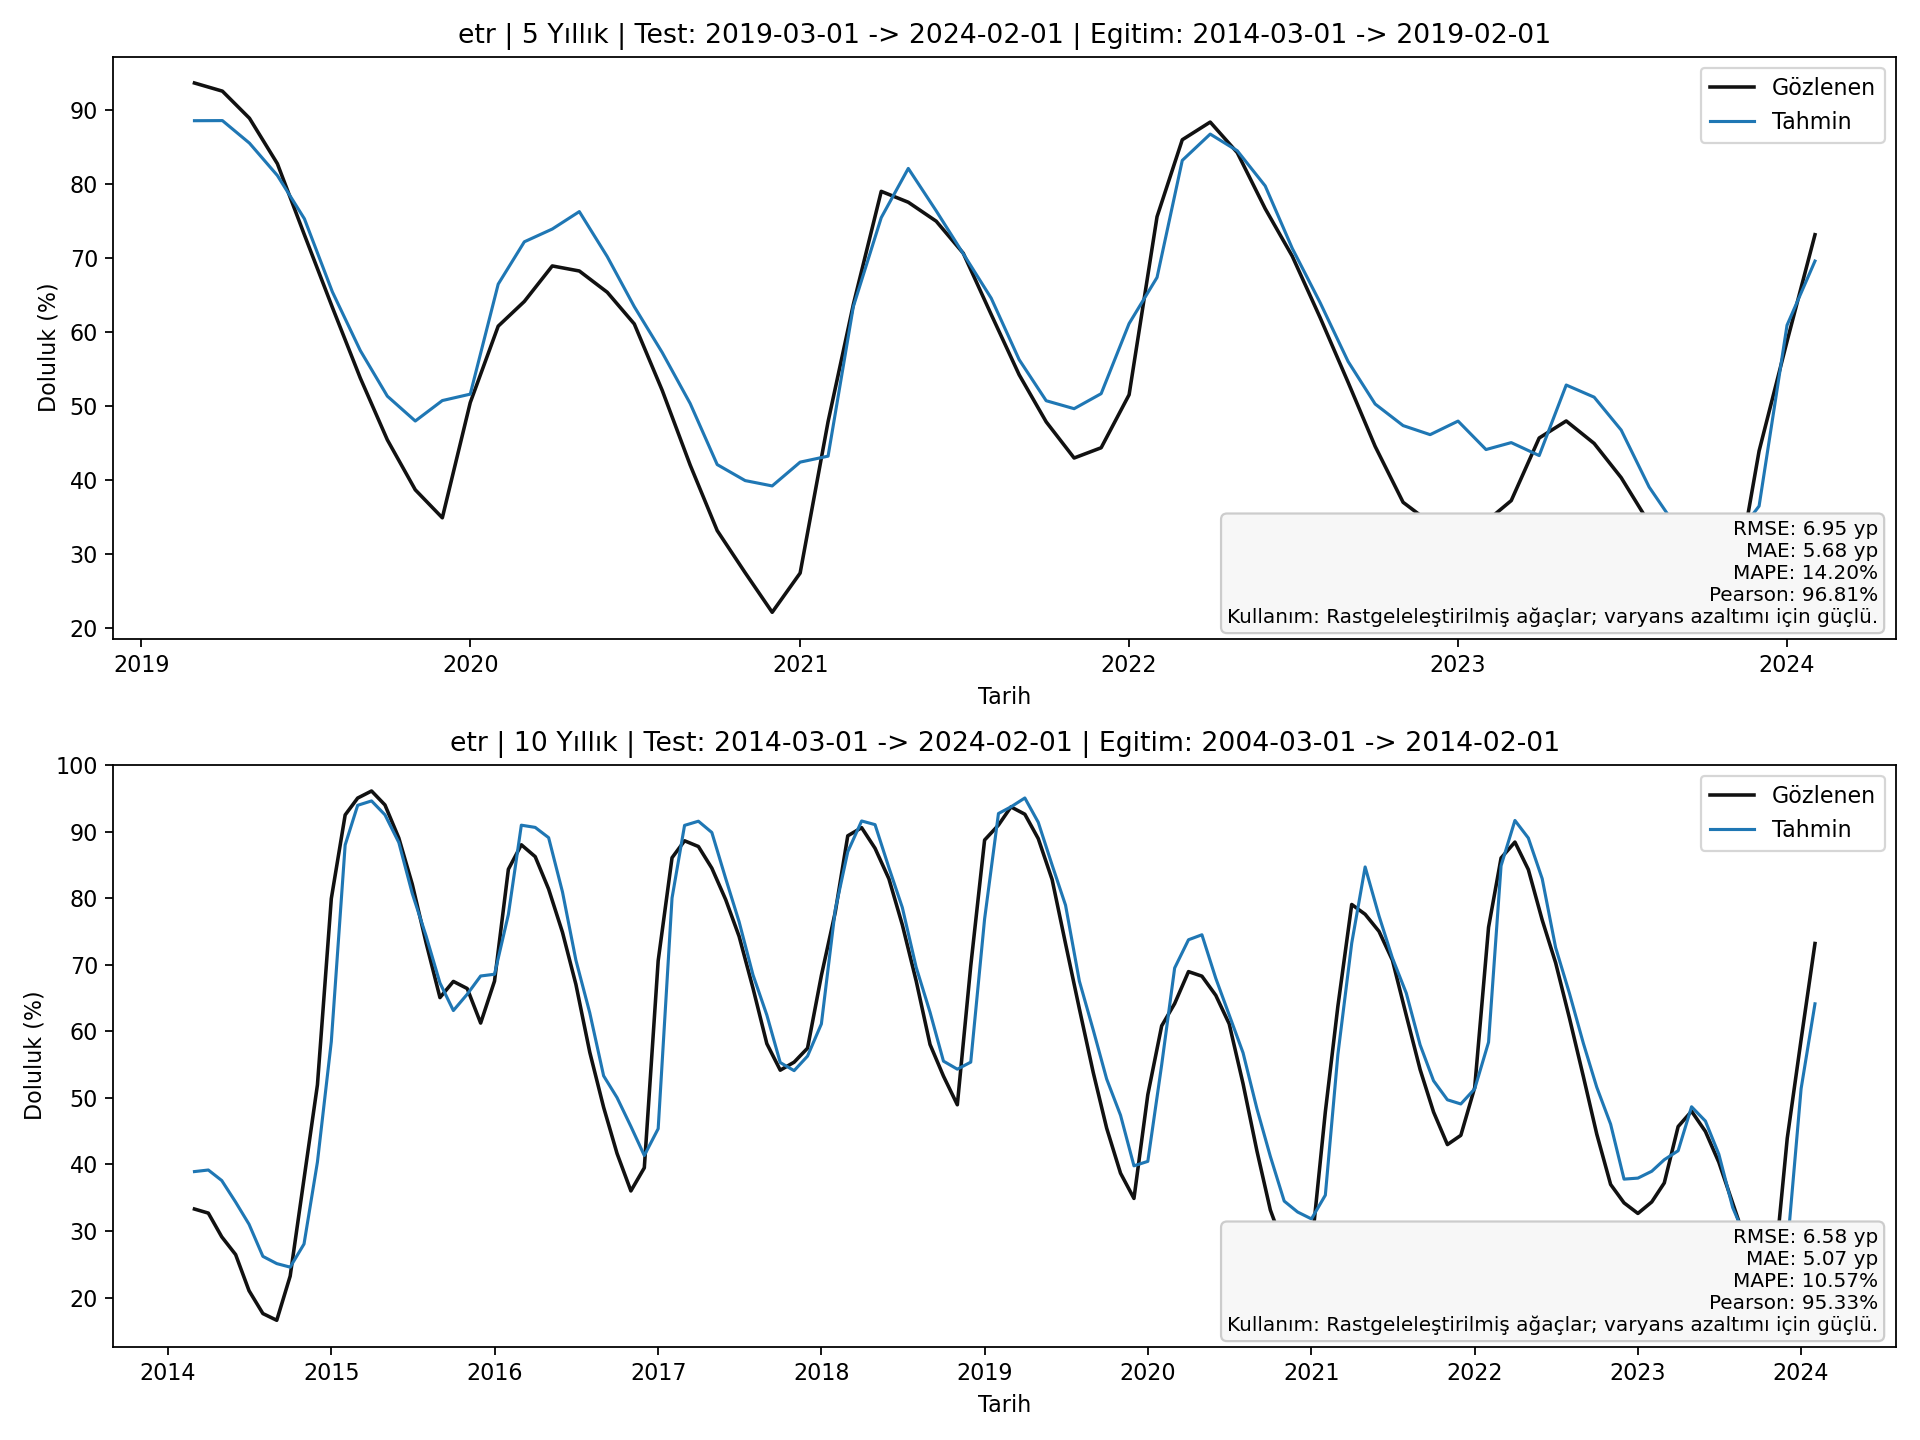
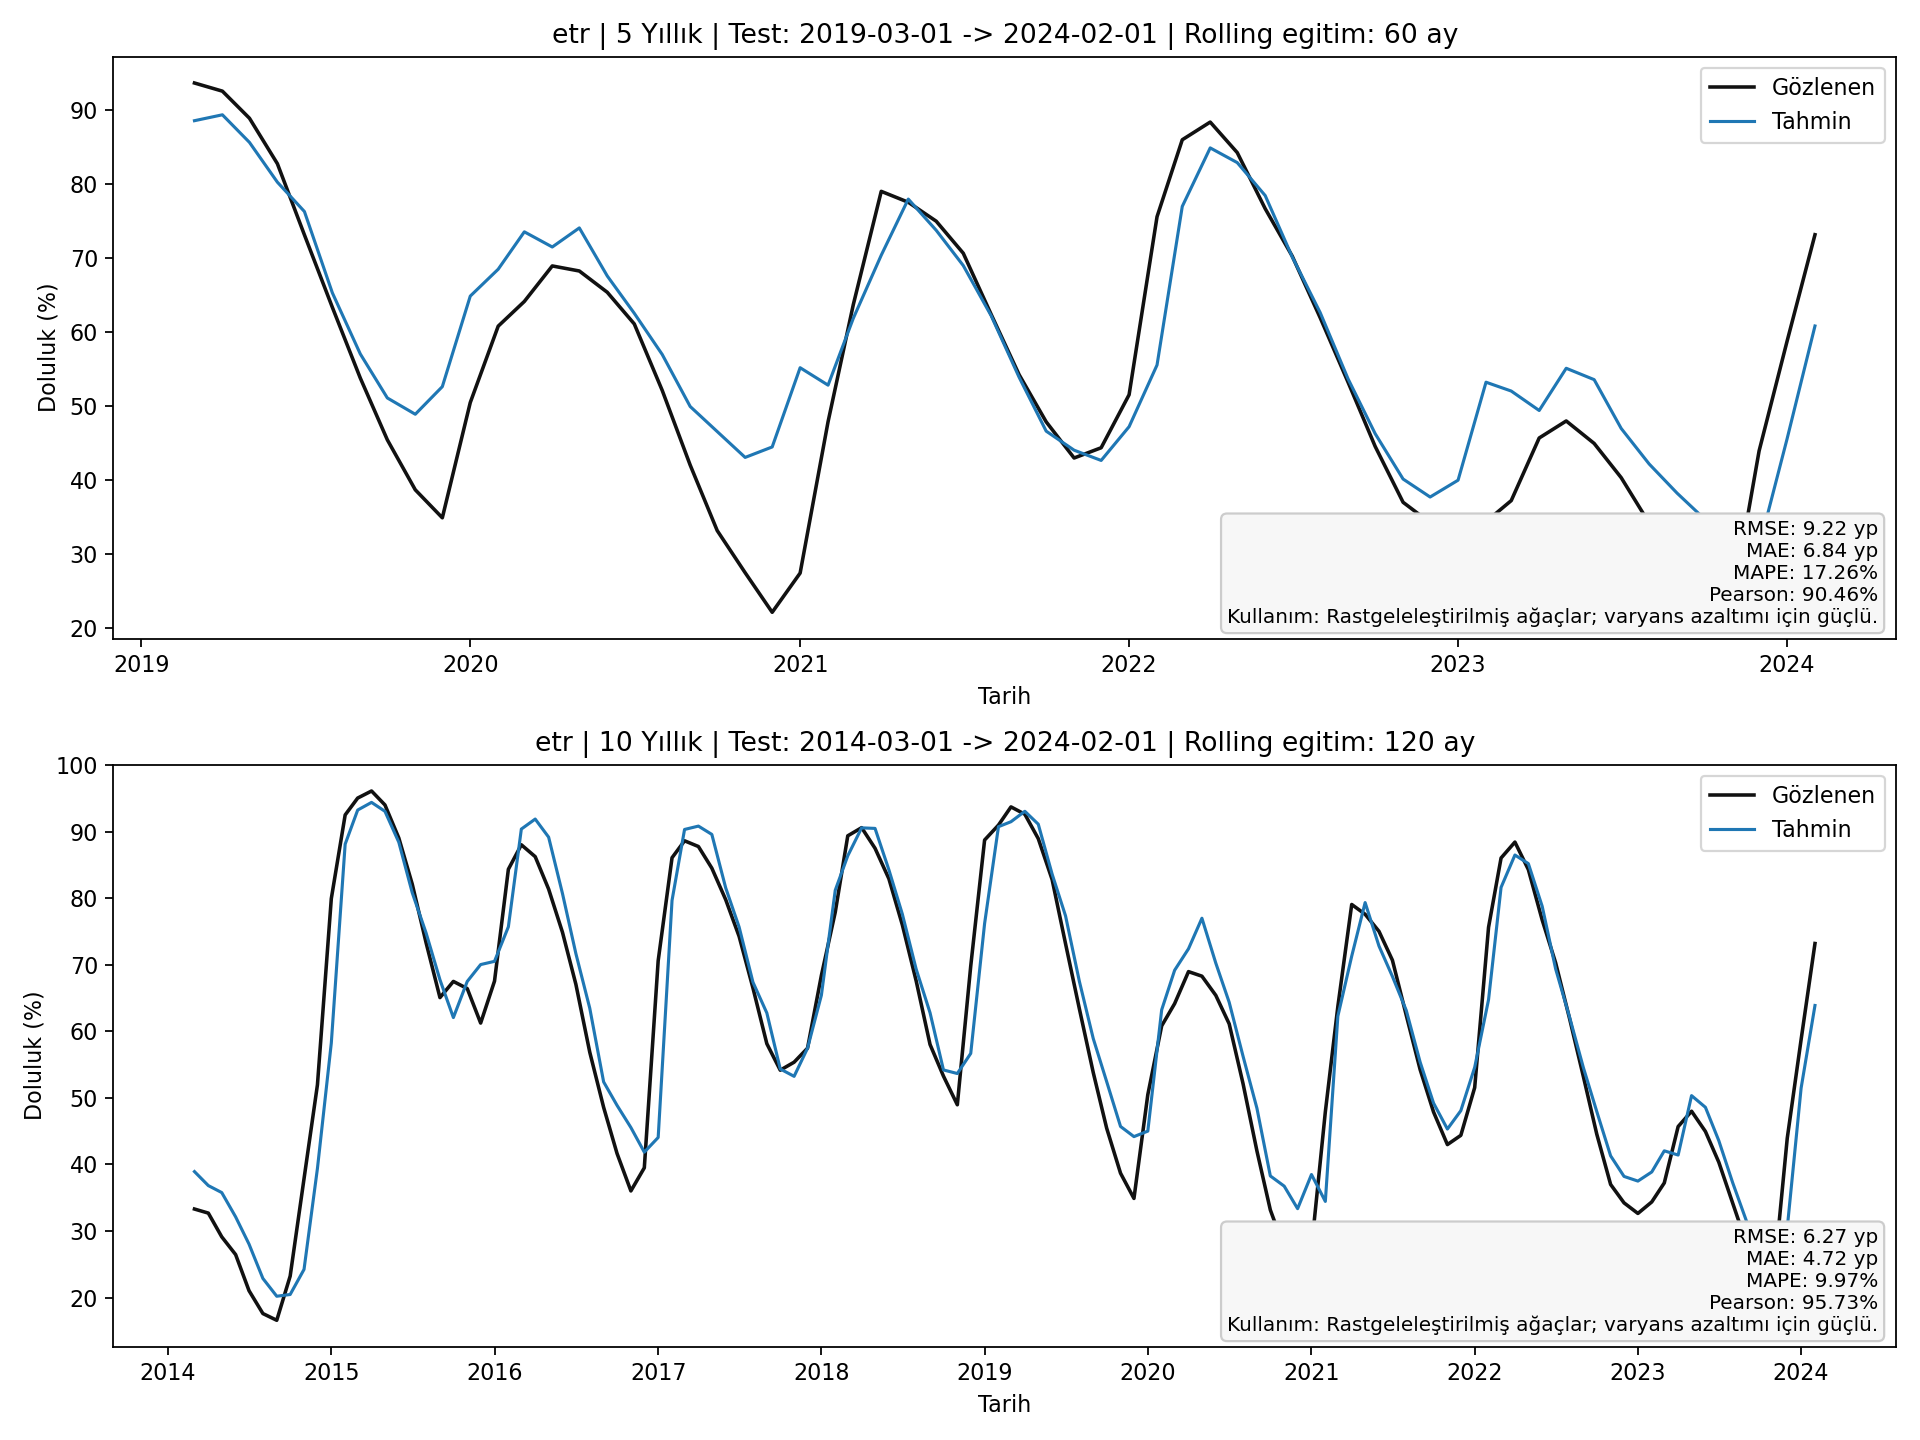
Grafikler: 5Y/10Y kartlarını rolling eğitim penceresine geçir

diff --git a/baraj_web/index.html b/baraj_web/index.html
@@ -471,7 +471,7 @@
             <div class="panel-media">
               <img class="media-wide zoomable" src="assets/img/ridge_projection_2000_2040.png?v=20260326-9" alt="Ridge 2000-2040" />
               <div class="media-row">
-                <img class="media-small zoomable" src="assets/img/ridge_5y_10y.png?v=20260326-12" alt="Ridge 5y/10y karşılaştırma" />
+                <img class="media-small zoomable" src="assets/img/ridge_5y_10y.png?v=20260326-13" alt="Ridge 5y/10y karşılaştırma" />
                 <img class="media-small zoomable" src="assets/img/ridge_projection_zoom_2040.png?v=20260326-9" alt="Ridge 2024-2040" />
               </div>
             </div>
@@ -489,7 +489,7 @@
             <div class="panel-media">
               <img class="media-wide zoomable" src="assets/img/gbr_projection_2000_2040.png?v=20260326-9" alt="GBR 2000-2040" />
               <div class="media-row">
-                <img class="media-small zoomable" src="assets/img/gbr_5y_10y.png?v=20260326-12" alt="GBR 5y/10y karşılaştırma" />
+                <img class="media-small zoomable" src="assets/img/gbr_5y_10y.png?v=20260326-13" alt="GBR 5y/10y karşılaştırma" />
                 <img class="media-small zoomable" src="assets/img/gbr_projection_zoom_2040.png?v=20260326-9" alt="GBR 2024-2040" />
               </div>
             </div>
@@ -507,7 +507,7 @@
             <div class="panel-media">
               <img class="media-wide zoomable" src="assets/img/hgb_projection_2000_2040.png?v=20260326-9" alt="HGB 2000-2040" />
               <div class="media-row">
-                <img class="media-small zoomable" src="assets/img/hgb_5y_10y.png?v=20260326-12" alt="HGB 5y/10y karşılaştırma" />
+                <img class="media-small zoomable" src="assets/img/hgb_5y_10y.png?v=20260326-13" alt="HGB 5y/10y karşılaştırma" />
                 <img class="media-small zoomable" src="assets/img/hgb_projection_zoom_2040.png?v=20260326-9" alt="HGB 2024-2040" />
               </div>
             </div>
@@ -525,7 +525,7 @@
             <div class="panel-media">
               <img class="media-wide zoomable" src="assets/img/rf_projection_2000_2040.png?v=20260326-9" alt="RF 2000-2040" />
               <div class="media-row">
-                <img class="media-small zoomable" src="assets/img/rf_5y_10y.png?v=20260326-12" alt="RF 5y/10y karşılaştırma" />
+                <img class="media-small zoomable" src="assets/img/rf_5y_10y.png?v=20260326-13" alt="RF 5y/10y karşılaştırma" />
                 <img class="media-small zoomable" src="assets/img/rf_projection_zoom_2040.png?v=20260326-9" alt="RF 2024-2040" />
               </div>
             </div>
@@ -543,7 +543,7 @@
             <div class="panel-media">
               <img class="media-wide zoomable" src="assets/img/etr_projection_2000_2040.png?v=20260326-9" alt="ETR 2000-2040" />
               <div class="media-row">
-                <img class="media-small zoomable" src="assets/img/etr_5y_10y.png?v=20260326-12" alt="ETR 5y/10y karşılaştırma" />
+                <img class="media-small zoomable" src="assets/img/etr_5y_10y.png?v=20260326-13" alt="ETR 5y/10y karşılaştırma" />
                 <img class="media-small zoomable" src="assets/img/etr_projection_zoom_2040.png?v=20260326-9" alt="ETR 2024-2040" />
               </div>
             </div>

diff --git a/index.html b/index.html
@@ -471,7 +471,7 @@
             <div class="panel-media">
               <img class="media-wide zoomable" src="assets/img/ridge_projection_2000_2040.png?v=20260326-9" alt="Ridge 2000-2040" />
               <div class="media-row">
-                <img class="media-small zoomable" src="assets/img/ridge_5y_10y.png?v=20260326-12" alt="Ridge 5y/10y karşılaştırma" />
+                <img class="media-small zoomable" src="assets/img/ridge_5y_10y.png?v=20260326-13" alt="Ridge 5y/10y karşılaştırma" />
                 <img class="media-small zoomable" src="assets/img/ridge_projection_zoom_2040.png?v=20260326-9" alt="Ridge 2024-2040" />
               </div>
             </div>
@@ -489,7 +489,7 @@
             <div class="panel-media">
               <img class="media-wide zoomable" src="assets/img/gbr_projection_2000_2040.png?v=20260326-9" alt="GBR 2000-2040" />
               <div class="media-row">
-                <img class="media-small zoomable" src="assets/img/gbr_5y_10y.png?v=20260326-12" alt="GBR 5y/10y karşılaştırma" />
+                <img class="media-small zoomable" src="assets/img/gbr_5y_10y.png?v=20260326-13" alt="GBR 5y/10y karşılaştırma" />
                 <img class="media-small zoomable" src="assets/img/gbr_projection_zoom_2040.png?v=20260326-9" alt="GBR 2024-2040" />
               </div>
             </div>
@@ -507,7 +507,7 @@
             <div class="panel-media">
               <img class="media-wide zoomable" src="assets/img/hgb_projection_2000_2040.png?v=20260326-9" alt="HGB 2000-2040" />
               <div class="media-row">
-                <img class="media-small zoomable" src="assets/img/hgb_5y_10y.png?v=20260326-12" alt="HGB 5y/10y karşılaştırma" />
+                <img class="media-small zoomable" src="assets/img/hgb_5y_10y.png?v=20260326-13" alt="HGB 5y/10y karşılaştırma" />
                 <img class="media-small zoomable" src="assets/img/hgb_projection_zoom_2040.png?v=20260326-9" alt="HGB 2024-2040" />
               </div>
             </div>
@@ -525,7 +525,7 @@
             <div class="panel-media">
               <img class="media-wide zoomable" src="assets/img/rf_projection_2000_2040.png?v=20260326-9" alt="RF 2000-2040" />
               <div class="media-row">
-                <img class="media-small zoomable" src="assets/img/rf_5y_10y.png?v=20260326-12" alt="RF 5y/10y karşılaştırma" />
+                <img class="media-small zoomable" src="assets/img/rf_5y_10y.png?v=20260326-13" alt="RF 5y/10y karşılaştırma" />
                 <img class="media-small zoomable" src="assets/img/rf_projection_zoom_2040.png?v=20260326-9" alt="RF 2024-2040" />
               </div>
             </div>
@@ -543,7 +543,7 @@
             <div class="panel-media">
               <img class="media-wide zoomable" src="assets/img/etr_projection_2000_2040.png?v=20260326-9" alt="ETR 2000-2040" />
               <div class="media-row">
-                <img class="media-small zoomable" src="assets/img/etr_5y_10y.png?v=20260326-12" alt="ETR 5y/10y karşılaştırma" />
+                <img class="media-small zoomable" src="assets/img/etr_5y_10y.png?v=20260326-13" alt="ETR 5y/10y karşılaştırma" />
                 <img class="media-small zoomable" src="assets/img/etr_projection_zoom_2040.png?v=20260326-9" alt="ETR 2024-2040" />
               </div>
             </div>

diff --git a/scripts/build_model_cards_5y_10y.py b/scripts/build_model_cards_5y_10y.py
@@ -14,6 +14,7 @@ from sklearn.linear_model import Ridge
 from sklearn.pipeline import make_pipeline
 from sklearn.preprocessing import StandardScaler
 from sklearn.ensemble import RandomForestRegressor, ExtraTreesRegressor, GradientBoostingRegressor, HistGradientBoostingRegressor
+from sklearn.base import clone
 from sklearn.metrics import mean_squared_error, mean_absolute_error
 
 ROOT = Path("/Users/yasinkaya/Hackhaton")
@@ -175,6 +176,51 @@ def split_window(df, train_start, train_end, test_start, test_end):
     return train, test
 
 
+def rolling_window_predict(
+    df: pd.DataFrame,
+    model_template,
+    lookback_months: int,
+    test_start: pd.Timestamp,
+    test_end: pd.Timestamp,
+):
+    data = df.sort_values("date").reset_index(drop=True).copy()
+    feat_cols = [c for c in data.columns if c not in ["date", "fill_pct"]]
+    test = data[(data["date"] >= test_start) & (data["date"] <= test_end)].copy()
+
+    dates = []
+    y_true = []
+    y_pred = []
+    train_windows = []
+
+    for _, row in test.iterrows():
+        cur_date = pd.Timestamp(row["date"])
+        train_end = (cur_date - pd.DateOffset(months=1)).normalize()
+        train_start = (train_end - pd.DateOffset(months=lookback_months - 1)).normalize()
+        train = data[(data["date"] >= train_start) & (data["date"] <= train_end)].copy()
+        if len(train) < lookback_months:
+            continue
+
+        X_train = train[feat_cols].to_numpy(dtype=float)
+        y_train = train["fill_pct"].to_numpy(dtype=float)
+        X_cur = np.asarray(row[feat_cols], dtype=float).reshape(1, -1)
+
+        model = clone(model_template)
+        model.fit(X_train, y_train)
+        pred = float(model.predict(X_cur)[0])
+
+        dates.append(cur_date)
+        y_true.append(float(row["fill_pct"]))
+        y_pred.append(pred)
+        train_windows.append((train_start, train_end))
+
+    return (
+        np.asarray(dates),
+        np.asarray(y_true, dtype=float),
+        np.asarray(y_pred, dtype=float),
+        train_windows,
+    )
+
+
 def model_catalog():
     return {
         "ridge": make_pipeline(StandardScaler(), Ridge(alpha=1.0)),
@@ -256,47 +302,47 @@ def main():
     end_date = feat["date"].max()
     test5_start = (end_date - pd.DateOffset(months=59)).normalize()
     test5_end = end_date
-    train5_end = (test5_start - pd.DateOffset(months=1)).normalize()
-    train5_start = (train5_end - pd.DateOffset(months=59)).normalize()
-
     test10_start = (end_date - pd.DateOffset(months=119)).normalize()
     test10_end = end_date
-    train10_end = (test10_start - pd.DateOffset(months=1)).normalize()
-    train10_start = (train10_end - pd.DateOffset(months=119)).normalize()
 
     windows = {
-        "5y": (train5_start, train5_end, test5_start, test5_end),
-        "10y": (train10_start, train10_end, test10_start, test10_end),
+        "5y": (60, test5_start, test5_end),
+        "10y": (120, test10_start, test10_end),
     }
 
     models = model_catalog()
     rows = []
     per_model = {name: {} for name in models.keys()}
 
-    for wlabel, (train_start, train_end, test_start, test_end) in windows.items():
-        train, test = split_window(feat, train_start, train_end, test_start, test_end)
-        if train.empty or test.empty:
-            continue
-        X_train = train.drop(columns=["date", "fill_pct"]).values
-        y_train = train["fill_pct"].values
-        X_test = test.drop(columns=["date", "fill_pct"]).values
-        y_test = test["fill_pct"].values
-
+    for wlabel, (lookback_months, test_start, test_end) in windows.items():
         for name, model in models.items():
-            model.fit(X_train, y_train)
-            y_pred = model.predict(X_test)
-            metrics = eval_metrics(y_test, y_pred)
+            dates, y_true, y_pred, train_windows = rolling_window_predict(
+                feat,
+                model,
+                lookback_months=lookback_months,
+                test_start=test_start,
+                test_end=test_end,
+            )
+            if len(y_true) == 0:
+                continue
+            metrics = eval_metrics(y_true, y_pred)
+            first_train = train_windows[0] if train_windows else (None, None)
+            last_train = train_windows[-1] if train_windows else (None, None)
             rows.append({
                 "model": name,
-                "train_window": f"{train_start.date()} -> {train_end.date()}",
+                "train_window": (
+                    f"rolling_{lookback_months}m "
+                    f"({first_train[0].date()} -> {first_train[1].date()}) .. "
+                    f"({last_train[0].date()} -> {last_train[1].date()})"
+                ),
                 "window": f"{test_start.date()} -> {test_end.date()}",
                 **metrics,
             })
 
             per_model[name][wlabel] = (
-                f"Test: {test_start.date()} -> {test_end.date()} | Egitim: {train_start.date()} -> {train_end.date()}",
-                test["date"].values,
-                y_test,
+                f"Test: {test_start.date()} -> {test_end.date()} | Rolling egitim: {lookback_months} ay",
+                dates,
+                y_true,
                 y_pred,
                 metrics,
             )
